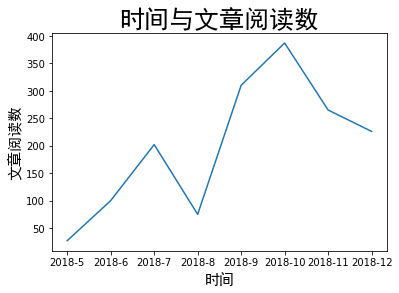
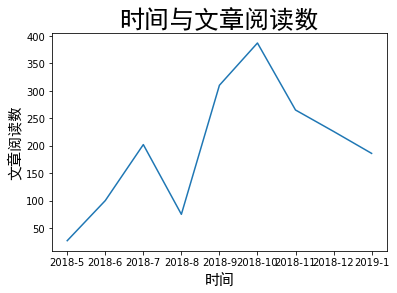
2019-1-25

diff --git a/number.py b/number.py
@@ -6,8 +6,8 @@ Created on Fri Sep 14 09:12:16 2018
 """
 
 import matplotlib.pyplot as plt
-date=['2018-5','2018-6','2018-7','2018-8','2018-9','2018-10','2018-11','2018-12']
-number=[27,100,202,75,310,387,265,226]
+date=['2018-5','2018-6','2018-7','2018-8','2018-9','2018-10','2018-11','2018-12','2019-1']
+number=[27,100,202,75,310,387,265,226,186]
 print("total number: ",sum(number))
 plt.title("时间与文章阅读数",fontproperties='SimHei',fontsize=25)
 plt.xlabel("时间",fontproperties='SimHei',fontsize=15)

diff --git a/README.md b/README.md
@@ -3,9 +3,49 @@
 ![number](number.png)            
 共1592篇文章        
 
-## 2019-1
+## 2019-2
 *   []()
 *   []()
+*   []()
+
+
+## 2019-1 共186篇
+*   [2018-11-2 显卡科普+选购指南](https://www.bilibili.com/read/cv1436106)
+*   [【年度大戏】勒索”嘿客“无间道之战](https://bbs.ichunqiu.com/thread-49603-1-1.html)
+*   [浅谈处理器级Spectre Attack及Poc分析](https://yangrz.github.io/blog/2018/01/09/cpu/?utm_source=tuicool&utm_medium=referral)
+*   [宇宙最强，meltdown论文中英文对照版(一)](https://blog.csdn.net/juS3Ve/article/details/79202105?utm_source=tuicool&utm_medium=referral)
+*   [权限系统设计模型分析（DAC，MAC，RBAC，ABAC）](https://www.jianshu.com/p/ce0944b4a903)
+*   [Meltdown漏洞利用解读（Part 1）：基础篇](https://www.anquanke.com/post/id/148119?utm_source=tuicool&utm_medium=referral)
+*   [深入解析Java反射（2） - invoke方法](https://www.sczyh30.com/posts/Java/java-reflection-2/)
+*   [java反射详解](https://www.cnblogs.com/rollenholt/archive/2011/09/02/2163758.html)
+*   [SWT、Swing 或 AWT：哪个更适合您？](https://www.ibm.com/developerworks/cn/opensource/os-swingswt/index.html)
+*   [**深入解析Java反射（1） - 基础**](https://www.sczyh30.com/posts/Java/java-reflection-1/)
+*   [从源码的角度再学「Thread」](http://www.cnblogs.com/zhangshaolin/p/10297676.html?utm_source=tuicool&utm_medium=referral)
+*   [RTTI](https://www.cnblogs.com/xidongyu/p/6961824.html)
+*   [2019-1-21 广东初步查明“基因编辑婴儿事件”](https://mp.weixin.qq.com/s?__biz=Njk5MTE1&mid=2652398364&idx=1&sn=e37683f459f6e6ecf96847aa9112dd50&chksm=33d99e9804ae178eaf4c33a5caa67f56d59f54420914d3bb29e9258afd8979eb8c625e619c11&mpshare=1&scene=23&srcid=0121amy7ih2mAY8fqaRDLGeE#rd)
+*   [在Visual Studio Code中配置GO开发环境](https://blog.csdn.net/langzi7758521/article/details/51313521)
+*   [Google Cloud Platform无限再次申请$300赠金方法](https://51.ruyo.net/9807.html)
+*   [游戏机制渗透并渐渐塑造了现实世界，你是否也一样认为理所当然？_文化_好奇心日报](http://www.qdaily.com/articles/57753.html?share_from=app)
+*   [如何看待拼多多出现 100 元无门槛优惠券的漏洞？可能的技术原因是什么？羊毛党行为是否具有法律风险？](https://daily.zhihu.com/story/9706046)
+*   [革命，不是自由的卧房，而是暴民的温床](https://user.guancha.cn/main/content?id=73275&s=zwyess)
+*   [OpenMP 入门教程](https://www.cnblogs.com/ospider/p/5265975.html)
+*   [2018 年各大城市上演“抢人大战”，人口对于城市意味着什么？ | 2018 商业大事件⑨_文化_好奇心日报](http://www.qdaily.com/articles/60360.html?share_from=app)   
+*   [一眼看穿👀JS基本概念 - 推酷](https://segmentfault.com/a/1190000017305051?utm_source=tuicool&utm_medium=referral)
+*   [为什么退休金是靠不住的](http://survivor.ruanyifeng.com/plan-b/retire.html)
+*   [**The Illustrated TLS Connection**](https://tls.ulfheim.net/)
+*   [网赚灰产不归人——雅贼归来（上） -卢松松博客](http://lusongsong.com/reed/11259.html?utm_source=tuicool&utm_medium=referral)
+*   [【译】如何高效的使用 Git](https://crossoverjie.top/2018/09/07/translation/how-to-use-git-efficiently/)
+*   [互联网Internet体系结构以及网关协议OSPF](https://blog.csdn.net/hanzhen7541/article/details/79032996)
+*   [计网|实验二 基于端口模式的VLAN实现](https://blog.csdn.net/qq_33478897/article/details/77455316)
+*   [计网|实验三 VLAN的设计与实现](https://blog.csdn.net/qq_33478897/article/details/77455407)
+*   [第18章 TCP连接的建立与终止_《TCP/IP详解 卷1：协议》_即时通讯网(52im.net) _即时通讯开发者社区!](http://docs.52im.net/extend/docs/book/tcpip/vol1/18/#h18_6)
+*   [无线通信中的IQ调制，BPSK调制，QPSK调制，16QAM调制的理解 – 默默的点滴](https://www.mobibrw.com/2018/12118?utm_source=tuicool&utm_medium=referral)
+*   [【 分类 】- 计算机网络 - hanzhen7541的博客 第2页 - CSDN博客](https://blog.csdn.net/hanzhen7541/article/category/7389095/2)
+*   [距离矢量路由算法](https://blog.csdn.net/u013007900/article/details/45565389)
+*   [生成树协议（英语：Spanning Tree Protocol，STP）](https://zh.wikipedia.org/wiki/%E7%94%9F%E6%88%90%E6%A0%91%E5%8D%8F%E8%AE%AE)
+*   [封装HDLC协议实现两个路由器互相通信](http://jiangxuezhi.blog.51cto.com/839007/1108319?utm_source=tuicool&utm_medium=referral)
+*   [**802.11协议精读2：DCF与CSMA/CA**](https://zhuanlan.zhihu.com/p/20721272)
+*   [802.11协议精读3：CSMA/CD与CSMA/CA - 知乎](https://zhuanlan.zhihu.com/p/20731045)
 *   [**【权威发布】吾爱破解论坛2018年优秀、精华TOP榜（上）**](https://mp.weixin.qq.com/s?__biz=MjM5Mjc3MDM2Mw==&mid=2651133298&idx=1&sn=3a052137be01e002a6ae18333989d2da&chksm=bd5085268a270c3086b5046bb3baba67fb0c2a51a13710911d6c6e81fae7913bb3b393fa62ef&mpshare=1&scene=23&srcid=0116Ug9aApV03Bp6HNX9bNf7#rd)
 *   [【安全科普】Linux提权——利用可执行文件SUID](https://www.anquanke.com/post/id/86979)
 *   [**特殊权限 SUID、SGID、Sticky**](https://www.cnblogs.com/Q--T/p/7864795.html)
